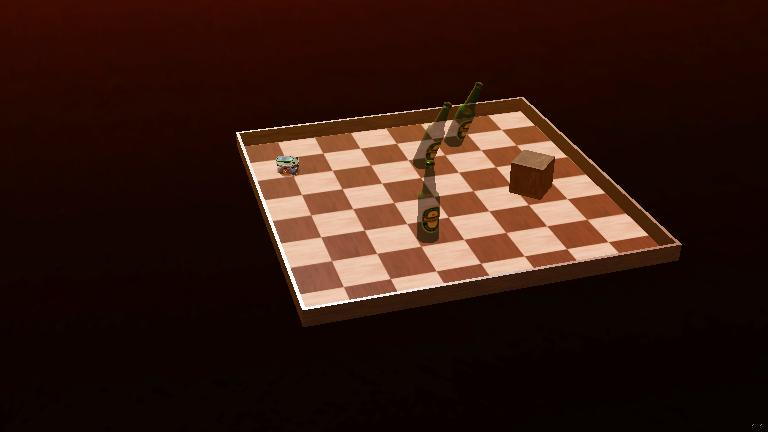
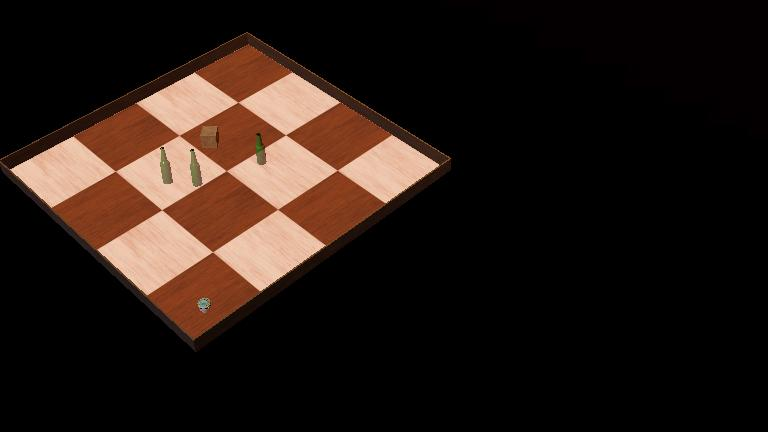
Update simulation world with new arena, robot/obstacle positions, and refine controller's obstacle avoidance logic and sensor configuration.

diff --git a/my_first_simulation/controllers/Proj_controller_my_controller_v1/Proj_controller_my_controller_v1.py b/my_first_simulation/controllers/Proj_controller_my_controller_v1/Proj_controller_my_controller_v1.py
@@ -52,14 +52,14 @@ def acc_speed(target_speed, current_speed, delta_time, time_to_target):
 # create the Robot instance
 robot = Robot()
 # get the time step of the current world
-timestep = int(robot.getBasicTimeStep()) #(ms) currently timestep is 1ms
+timestep = int(robot.getBasicTimeStep()) #(ms) currently timestep is 10ms
 # Get motor devices
 motorL = robot.getDevice('left wheel motor')
 motorR = robot.getDevice('right wheel motor')
 
 # Setup distance sensor 
 ds1 = robot.getDevice('TestSensor1')
-# enable distance sensor with in order to have a good precision
+# enable distance sensor in order to have a good precision
 ds1.enable(timestep)
 
 
@@ -80,8 +80,9 @@ while robot.step(timestep) != -1:
     # Read and print the sensor value every 1 second 
     current_time = robot.getTime()
     dist = ds1.getValue()
+    print(f"The distance mesured by the distance sensor 1 at time {current_time}s is: {dist}")
     if current_time - last_print_time >= 0.5:
-        print(f"The distance mesured by the distance sensor 1 at time {current_time}s is: {dist}")
+        # print(f"The distance mesured by the distance sensor 1 at time {current_time}s is: {dist}")
         last_print_time = current_time
         # Get wheel speed and print it
         w_r = motorR.getVelocity()
@@ -91,8 +92,8 @@ while robot.step(timestep) != -1:
     # set_wheel_velocity(0.1, 0)
 
     # Simple obstacle avoidance with deceleration and acceleration
-    if dist < 750:
-        set_wheel_velocity(0.1, -5)
+    if dist < 800:
+        set_wheel_velocity(0.1, 5)
         time_to_target = 0.0
     elif dist < 1000: 
         current_speed = get_current_linear_speed()
